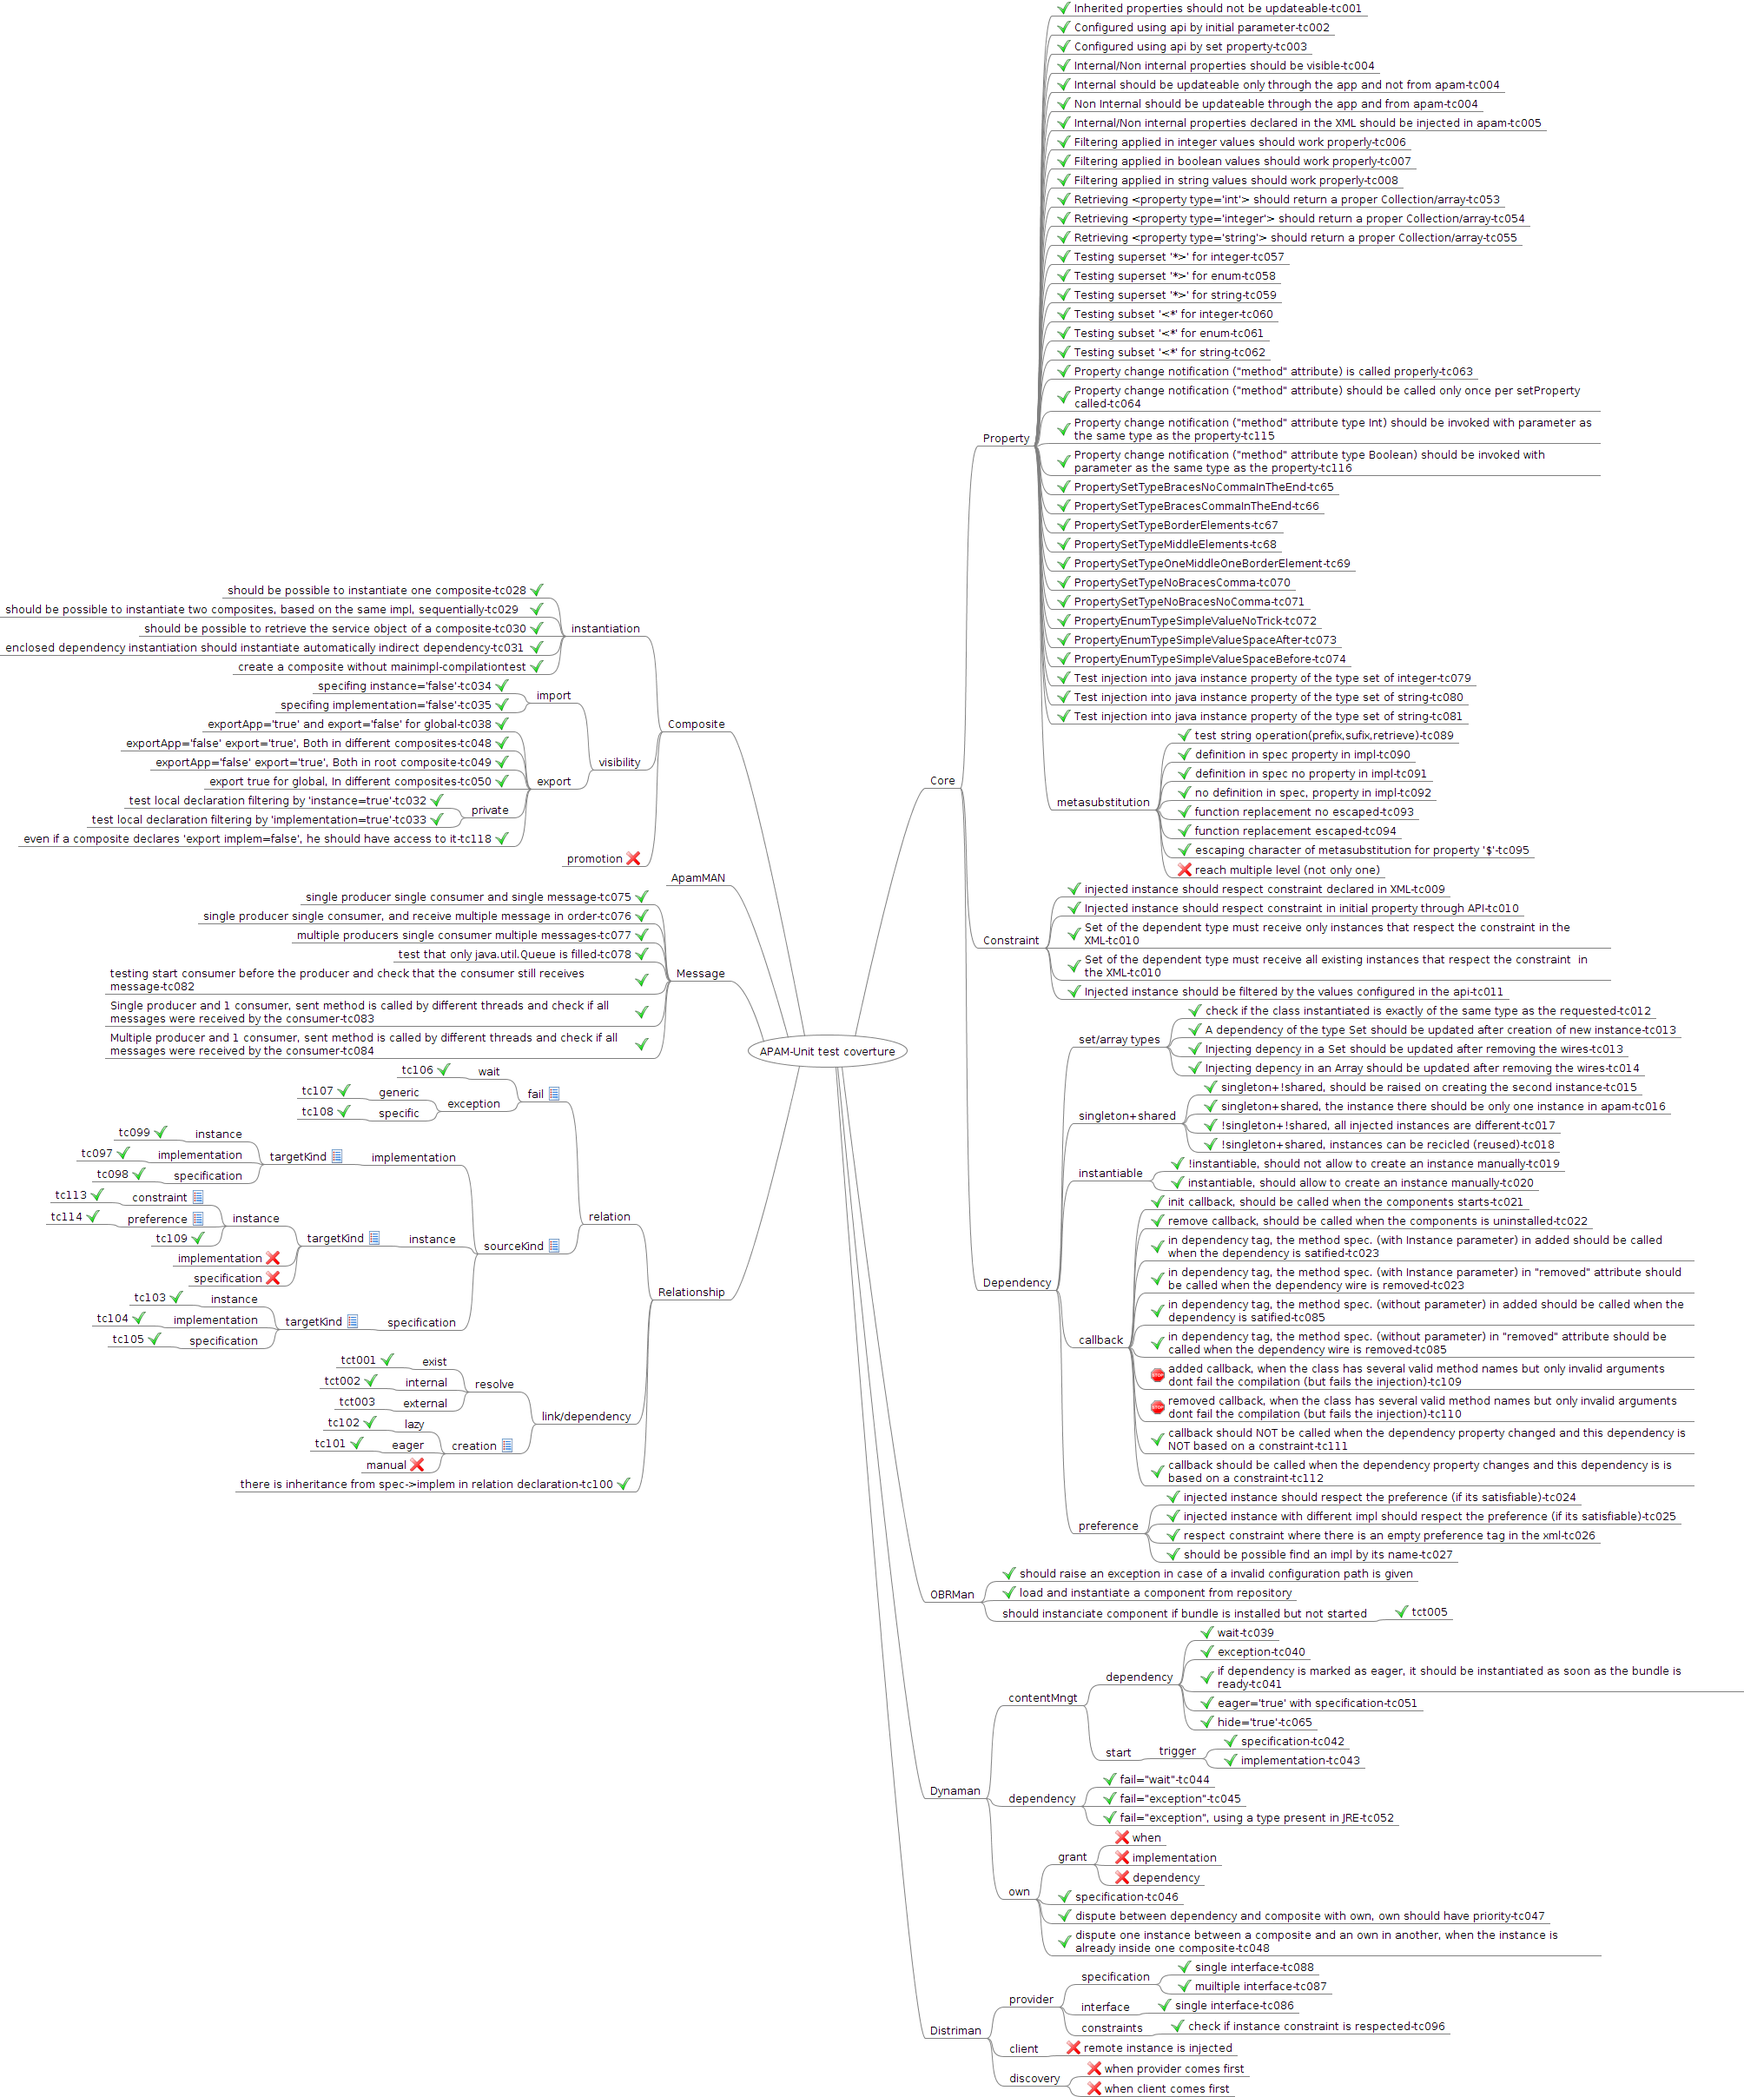
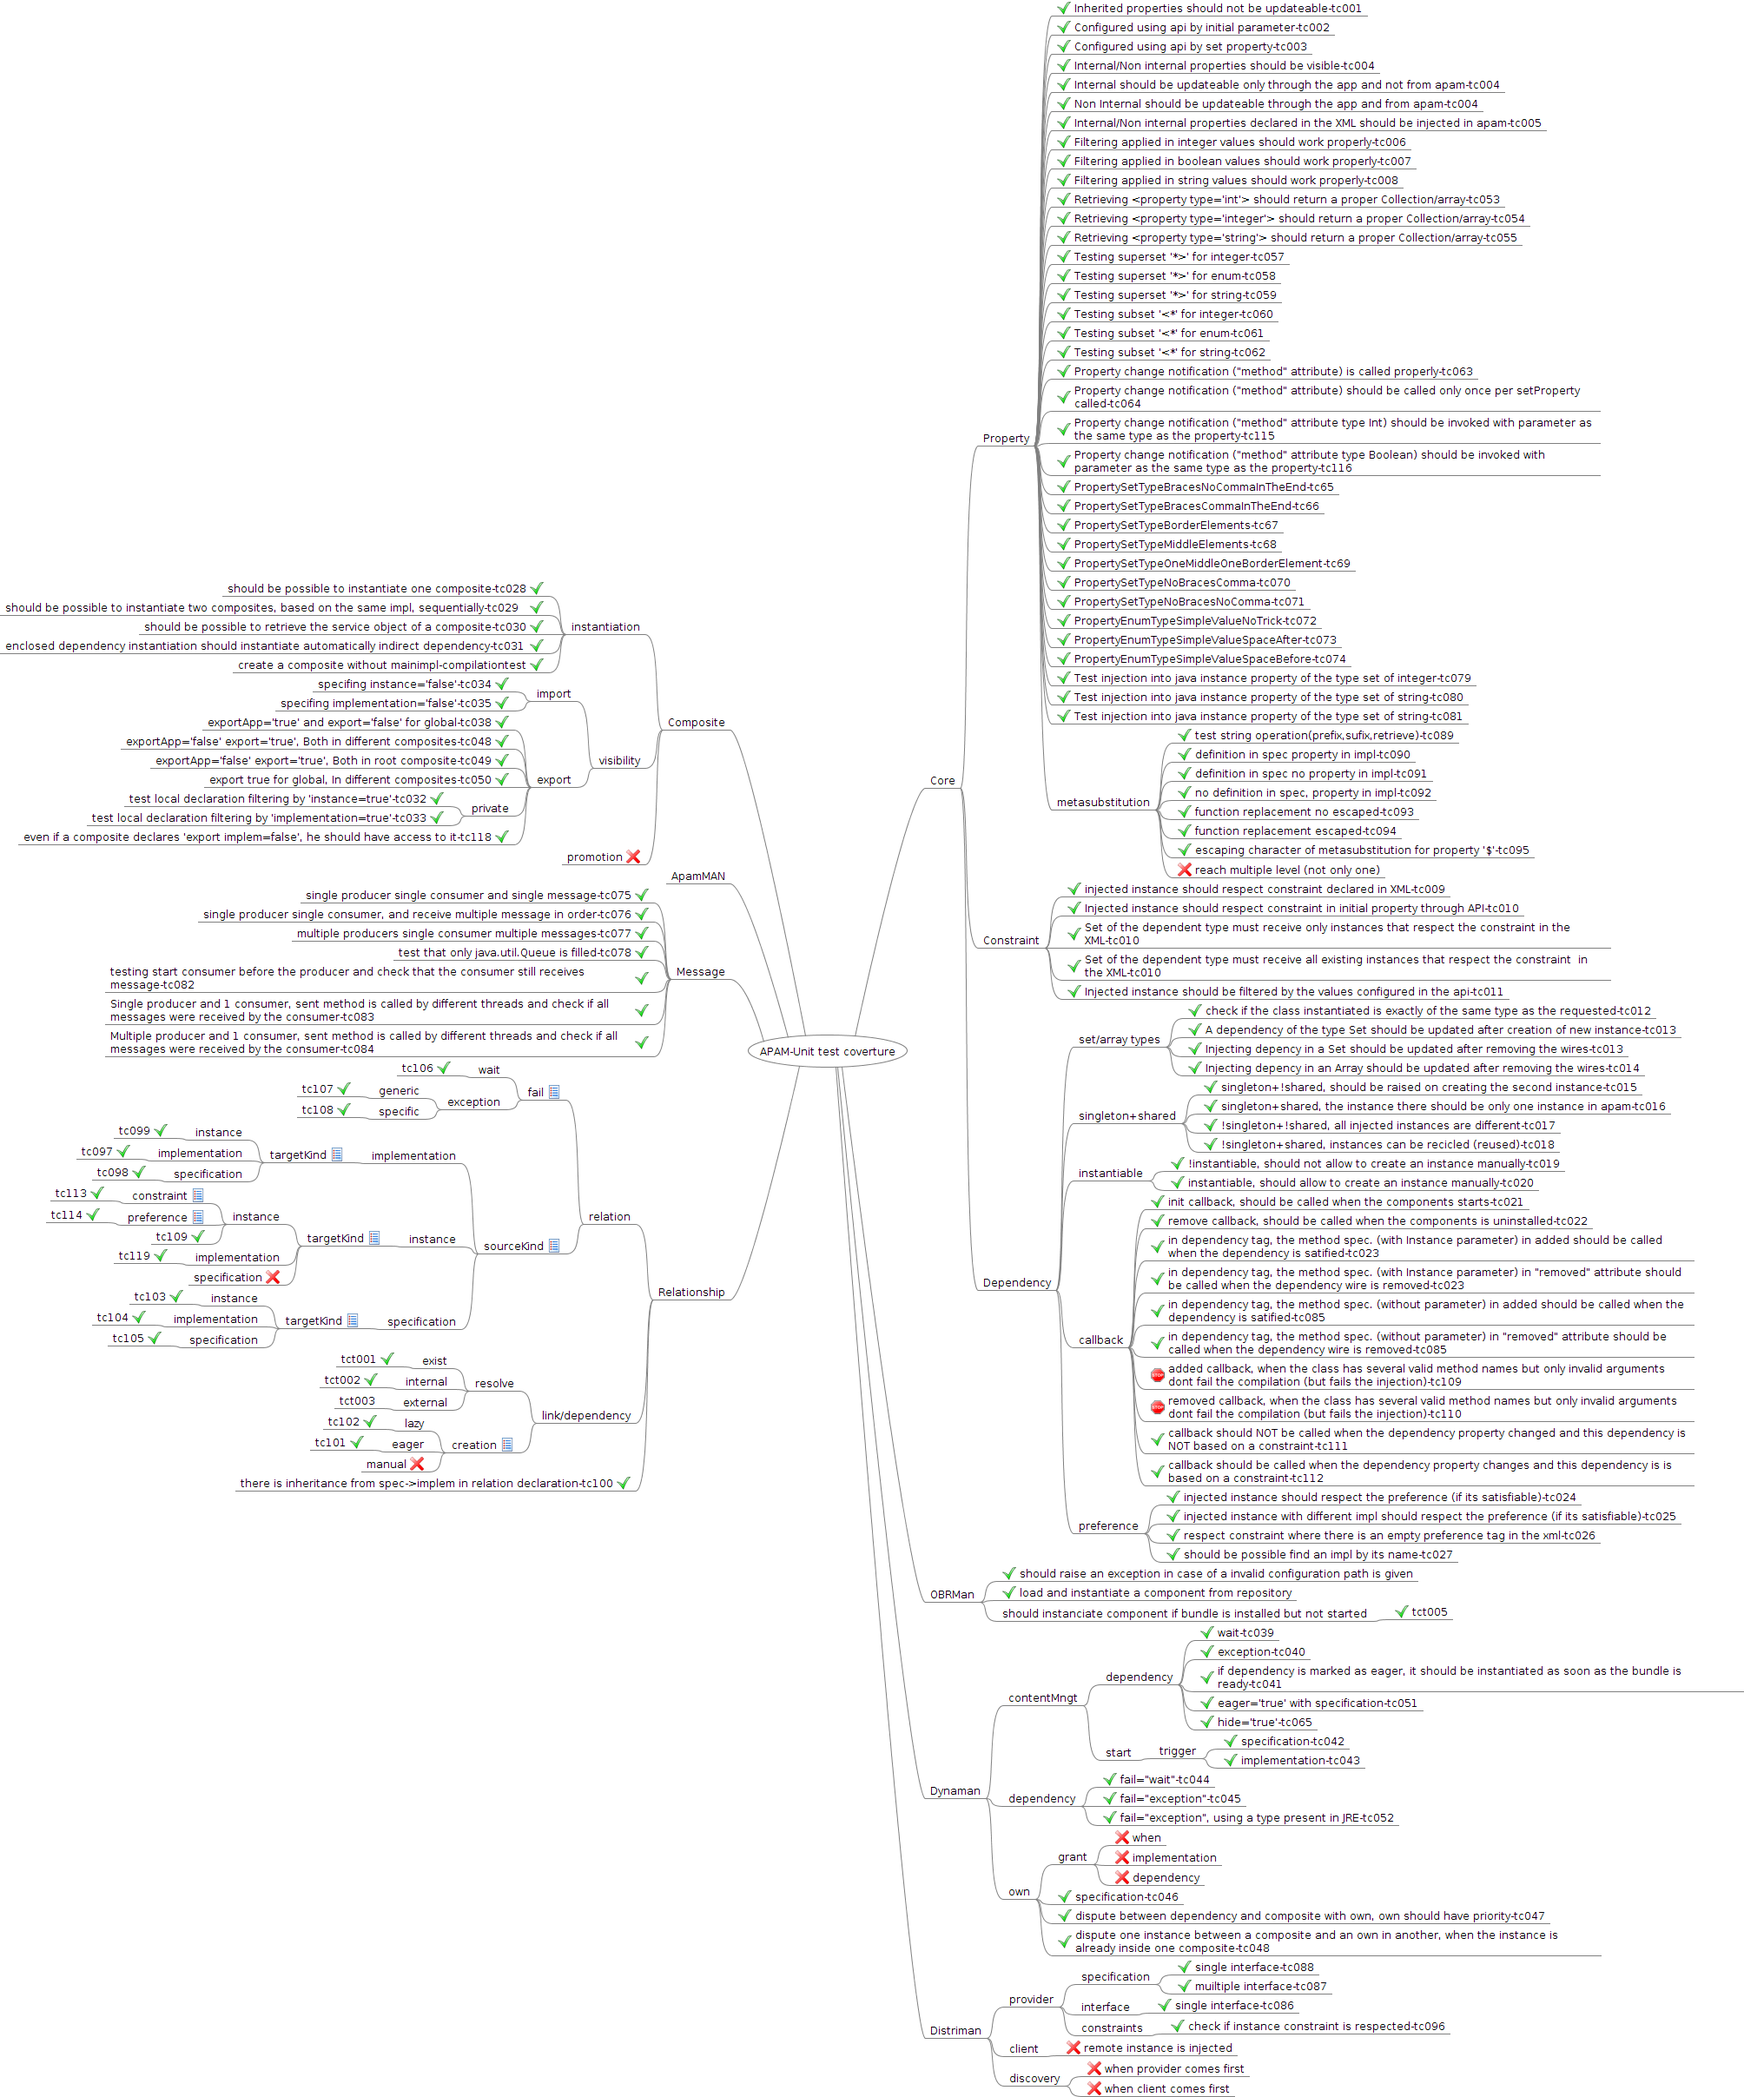
updating coverture test map

Changed region(s): [[0.0, 0.2796, 0.4014, 0.6524], [0.1853, 0.6214, 0.3088, 0.7146]]

diff --git a/documentations/technical/test-coverture/APAM-UnitTest-Coverture-OnFreeMindApp.mm b/documentations/technical/test-coverture/APAM-UnitTest-Coverture-OnFreeMindApp.mm
@@ -497,8 +497,10 @@
 <icon BUILTIN="button_ok"/>
 </node>
 </node>
-<node CREATED="1372768340318" ID="ID_1326272685" MODIFIED="1375184814994" TEXT="implementation">
-<icon BUILTIN="button_cancel"/>
+<node CREATED="1372768340318" ID="ID_1326272685" MODIFIED="1375193474260" TEXT="implementation">
+<node CREATED="1375193461198" ID="ID_882542440" MODIFIED="1375193471188" TEXT="tc119">
+<icon BUILTIN="button_ok"/>
+</node>
 </node>
 <node CREATED="1372768348604" ID="ID_1449760738" MODIFIED="1375184817610" TEXT="specification">
 <icon BUILTIN="button_cancel"/>
